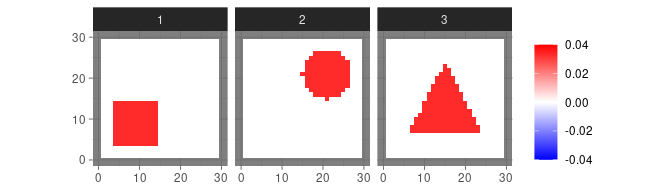
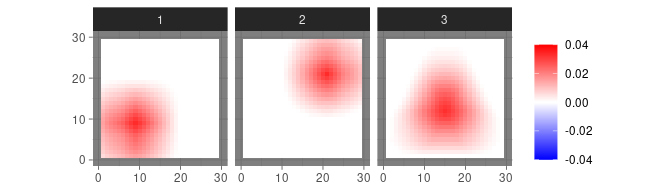
readme

Changed region(s): [[0.5938, 0.3125, 0.75, 0.7812], [0.125, 0.4375, 0.2812, 0.8438], [0.4062, 0.1875, 0.5625, 0.5938]]

diff --git a/README.md b/README.md
@@ -27,10 +27,11 @@ probabilistic ICA model:
 ``` r
 library(BSPBSS)
 set.seed(612)
-sim = sim_2Dimage(length = 30, sigma = 5e-4, n = 30, smooth = 0)
+sim = sim_2Dimage(length = 30, sigma = 5e-4, n = 30, smooth = 6)
 ```
 
-The true source signals are three 2D geometric patterns
+The true source signals are three 2D geometric patterns (set `smooth=0`
+to generate patterns with sharp edges)
 
 ``` r
 levelplot2D(sim$S,lim = c(-0.04,0.04), sim$coords)
@@ -75,10 +76,11 @@ levelplot2D(res_sum$S, lim = c(-1.3,1.3), sim$coords)
 
 <img src="man/figures/README-unnamed-chunk-9-1.png" width="100%" />
 
-For comparison, informax ICA provides estimation as
+For comparison, we show the estimated sources provided by informax ICA
+here
 
 ``` r
-levelplot2D(ini$init$ICA_S, lim = c(-1.6,1.6), sim$coords)
+levelplot2D(ini$init$ICA_S, lim = c(-1.7,1.7), sim$coords)
 ```
 
 <img src="man/figures/README-unnamed-chunk-10-1.png" width="100%" />
